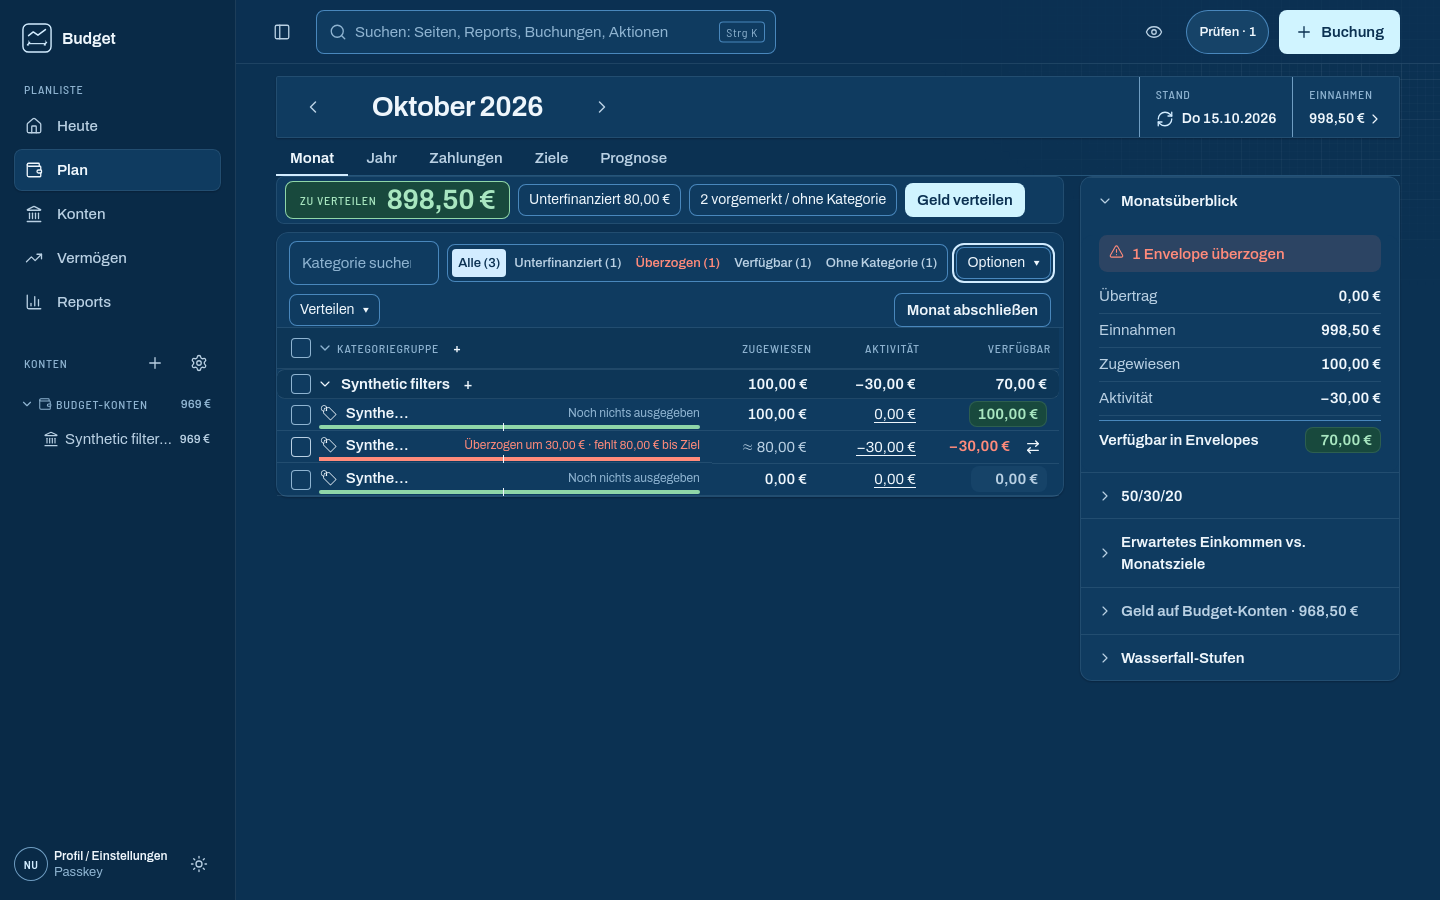
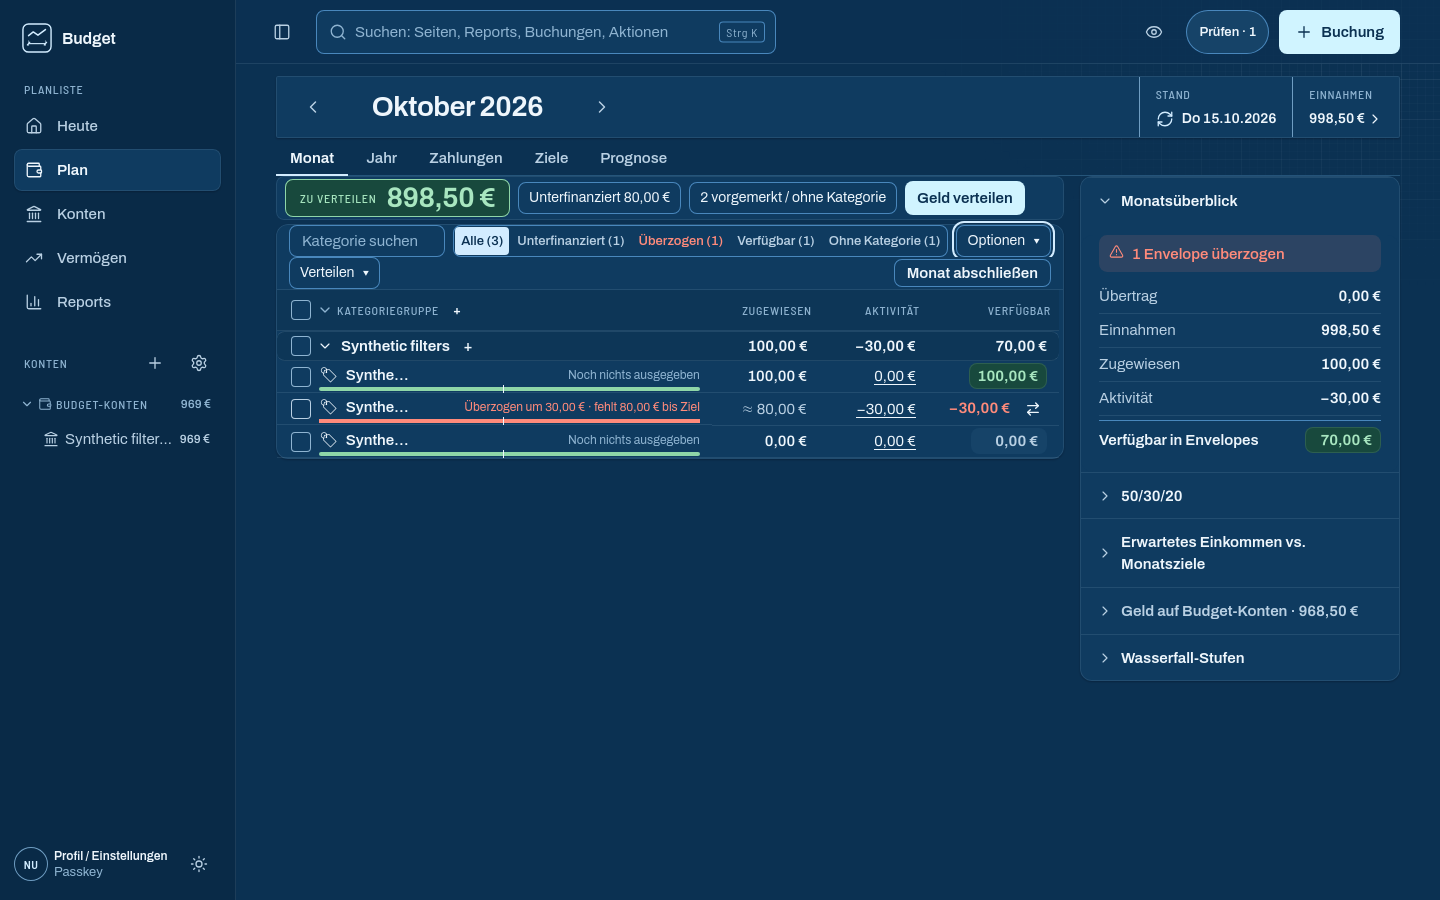
docs: record current Plan filter regression checks

Changed region(s): [[0.1875, 0.1867, 0.75, 0.56]]

diff --git a/docs/evidence/plan-filters-589/README.md b/docs/evidence/plan-filters-589/README.md
@@ -1,68 +1,65 @@
 # Plan category filters — #589
 
-Synthetic evidence from source `376fe26ddc03f75b3c0399ea169b67ee47ec470d`.
-The current canonical WebKit run passed **7/7**: three setup cases and four
-feature cases, with no skips, retries or flaky results (60.745s). A fresh E2E
-build passed; all 166 compiled files and source/Git remained unchanged during
-native execution. Owned processes and containers were cleaned up.
+Current synthetic evidence uses source `193f78b5c9dc96384ea8624f56aac0e926395a95`.
+Canonical WebKit passed **7/7**: three setup and four feature cases, no skips,
+retries or flaky results (69.953s). A fresh E2E build passed; source/Git and all
+166 compiled files stayed unchanged during native execution. Owned processes
+and containers were cleaned up.
 
 ## Current original images
 
-| Profile | Light | Dark | Actual viewport | Pointer |
-| --- | --- | --- | --- | --- |
-| Desktop-shaped WebKit | [Original](desktop-light.png) | [Original](desktop-dark.png) | 1440 × 900 | Fine |
-| Configured WebKit iPhone | [Original](phone-light.png) | [Original](phone-dark.png) | 390 × 664 | Coarse |
+| Profile | Light | Dark | Viewport | Pointer | Before grid |
+| --- | --- | --- | --- | --- | --- |
+| Desktop-shaped WebKit | [Original](desktop-light.png) | [Original](desktop-dark.png) | 1440 × 900 | Fine | 114px |
+| Configured WebKit iPhone | [Original](phone-light.png) | [Original](phone-dark.png) | 390 × 664 | Coarse | 330px |
 
-These four files are byte-identical copies from the current run, without image
-editing. The desktop images show the clarified “2 vorgemerkt / ohne Kategorie”
-union beside the strict “Ohne Kategorie (1)” filter. The union counts a pending
-classified booking and a pending uncategorized booking once each; the strict
-filter includes only the latter. Counts, existing popover and financial data
-remain unchanged. The union chip lies beyond the initial phone header horizontal
-scroll; phone PNGs therefore match prior image bytes. Current DOM assertions
-verify the new text/title, not initial phone visibility of that chip.
+All four are byte-identical copies from the current run, without editing.
+Desktop search, segments and Optionen share one row with the inspector open;
+the measured table offset114px meets the unchanged120px desktop boundary.
+This measurement uses the NEW synthetic scene, not a claimed rerun of the old
+18-row browser fixture. Phone still wraps at44px target height; the desktop120px
+bound is not applied to its330px offset. Both desktop-shaped scenes use WebKit.
 
-Desktop search, segments and Optionen share one row with the inspector open.
-On phone they wrap without horizontal document overflow (scrollWidth 390).
-The seven new phone controls have 44px height and passed individual scroll/reveal,
-viewport bounds and centre-hit ownership checks. Their initial recorded positions
-follow selection-triggered scrolling, so this is not proof that all seven controls
-fit simultaneously in the visible viewport. Full-page phone PNGs include content
-below the fixed navigation; this is configured browser evidence, not a physical
-device or whole-page touch-target certification.
+The header union “2 vorgemerkt / ohne Kategorie” remains distinct from strict
+“Ohne Kategorie (1)”. On phone that union chip lies beyond the initial header
+horizontal scroll. Phone originals therefore retain earlier image bytes, but
+were copied and verified from this current archive; DOM assertions verify the
+label/title, not initial phone visibility of the chip.
 
-## Interaction and financial evidence
+## Current interactions and focused checks
 
-All four current feature cases passed keyboard/menu and selected-state checks,
-changed-region Axe, search/filter URL navigation, Back/Forward/reload, actual
-source-booking links and privacy. The real existing UI cover action moved donor
-10000/recipient−3000 cents to 7000/0. Its persisted audit group and real Undo
-restored 10000/−3000, while the account remained 96850 cents. No synthetic success
-transport replaced these financial writes.
+All four current native cases passed legacy triage→Gruppen and triage→Zeit
+navigation, keyboard/selected state, changed-region Axe, search/filter URL
+Back/Forward/reload, source links and privacy. The real UI cover action moved
+donor10000/recipient−3000 cents to7000/0; its persisted audit group and real Undo
+restored10000/−3000, with account96850 unchanged. No mocked financial transport
+replaced these writes.
 
-Separate focused runs passed NEW pure 3, real API 3 and current Router UI 5, including
-exact 51 booking IDs, 50+1 paging, cursor refusal, read-only state conservation and
-the literal 52 union versus 51 strict count/dedup case. Eight unchanged compatibility
-files / 70 tests passed. DB/server/Web types and scoped lint/format/CSS checks passed;
-latest label-related static/UI checks ran on the current source. Existing tests,
-financial writers and formulas are unchanged.
+On the current source, NEW RouterUI7, eight unchanged compatibility files/70 tests,
+Web types, scoped ESLint/Prettier and CSS scale all passed. New Router cases cover
+legacy grouping, view changes, explicit filters, All and stale saved-triage state;
+ordinary/time-view row eligibility remains unchanged. Earlier pure3/API3 pass
+receipts remain separate, including exact51 IDs/50+1/cursor/no-write assertions.
+No existing test, financial writer or formula changed.
 
-## Limits and remaining gates
+## Historical results and pending gates
 
-- Chromium desktop/mobile acceptance is **pending required exact-head CI**. The
-  earlier local combined run had seven passes and four Chromium failures before
-  launch because canonical headless shell1248 was absent; no Chromium product
-  assertion ran. Both desktop-shaped images here still use WebKit.
-- Required `BUDGET_REQUIRE_AGE=1 npm run check` passed on source/evidence checkpoint
-  `f40e03370d9d2d7613c7be5730c767f281f9b7e2`: 589 files / 5211 tests, no failures
-  or skips; normal production build passed. All 3650 source hashes and modes,
-  HEAD, index and process guards stayed unchanged. This later documentation-only
-  result update does not change product or test code.
-- Exact-head required CI, serial integration and verified LIVE remain pending.
-- The existing phone floating plus partly overlaps Monat abschließen; existing
-  category-name ellipses and fixed-navigation full-page screenshot behavior are
-  outside this filter packet and do not certify those controls.
+- The earlier AGE-required full check and normal production build passed on
+  `f40e03370d9d2d7613c7be5730c767f281f9b7e2`:589 files/5211 tests, zero failures
+  or skips. That was before the compactness/legacy-triage correction; it is **not**
+  a required-full result on the current193f source.
+- First PR744 CI on329d failed real unchanged browser contracts: desktop table
+  offset194px exceeded120px; legacy triage grouping/view transitions failed on
+  desktop/mobile/WebKit. Those failures remain archived. Current targeted/new
+  WebKit success is not an unchanged-OLD-browser or current-green-CI claim.
+- Corrected exact-head Chromium desktop/mobile and required CI, any further
+  required validation/build, serial integration and verified LIVE remain pending.
+  An older local run also had four Chromium prelaunch failures from absent
+  canonical shell1248; that environment gap does not explain the later CI defects.
 
-The initial invalid contact/transfer API fixture, first custom-input label lint
-failure and earlier unclarified-header images remain historical receipts. They
-are not counted as extra successful tests or substituted for these current images.
+Phone scrollWidth is390 with no horizontal document overflow. Individual new
+controls passed scroll/reveal, viewport and centre-hit checks; their initial raw
+positions follow selection scroll, so not all seven are claimed simultaneously
+visible. Full-page phone images include content below fixed navigation and are
+not physical-device/whole-page target proof. Existing FAB/month-close overlap
+and category-name ellipses remain outside this packet.

diff --git a/docs/ROADMAP.md b/docs/ROADMAP.md
@@ -1795,19 +1795,16 @@ explicit reanalysis/review. Upload and reanalysis never post money.
 
 ## #589 — URL-backed Plan filters: isolated acceptance packet
 
-Category-name search and five URL-backed filters share count/list predicates.
-“Überzogen” retains the existing cover controls above the list; “Ohne Kategorie”
-links actual source bookings with bounded paging. The older header now labels its
-separate “vorgemerkt / ohne Kategorie” union. Financial writers, formulas and all
-existing tests are unchanged.
+URL-backed category search/counts and the strict missing-category reader retain
+existing financial writers/formulas. The separate header union is explicitly
+labelled “vorgemerkt / ohne Kategorie”. Compact fine-pointer controls and legacy
+triage/view transitions are corrected without changing any existing test.
 
-- [x] NEW pure3, corrected real API3 and current RouterUI5 passed in separate focused runs: literal counts/IDs, hidden and multi-month predicates, exact51/50+1 paging, cursor refusal, URL/history/search, selection/collapse and no-write conservation.
-- [x] Eight unchanged compatibility files/70 tests, affected types and scoped lint/format/CSS passed. Current header wording has a literal52-versus51 union/dedup regression.
-- [x] Current canonical WebKit7/7 (setup3 + feature4), no skips/retries/flaky cases: desktop1440×900/configured390×664 in both themes, individual phone44px targets, keyboard, Axe, source links and real cover/audit/Undo. [Four original images and evidence limits](evidence/plan-filters-589/README.md).
-- [ ] Chromium desktop/mobile required exact-head CI. Earlier local Chromium4 failed before launch because the canonical browser was absent; no product assertion ran.
-- [x] Required AGE-enabled full check and normal production build on `f40e0337`: 589 files / 5211 tests passed, zero failures/skips; all 3650 source hashes/modes, HEAD/index and process guards stayed exact.
-- [ ] Exact-head required CI, serial integration and verified LIVE; no queue-completion claim.
+- [x] Earlier NEW pure3/API3 passed with literal counts/IDs, hidden/multi-month predicates, exact51/50+1 paging, cursor refusal and read-only conservation.
+- [x] Current193f NEW RouterUI7 and unchanged compatibility8files/70tests passed; Web types and scoped lint/format/CSS passed. Legacy entry/view/All/explicit-filter and saved-state cases are covered.
+- [x] Current WebKit7/7 (setup3 + feature4), no skips/retries/flaky cases: both themes, desktop1440×900 table offset114px≤120 and configured390×664 with44px targets/no overflow; legacy triage roundtrips, keyboard/Axe/source links and real cover/audit/Undo passed. [Four current original images and limits](evidence/plan-filters-589/README.md).
+- [x] Historical required AGE full check and normal production build passed onf40e0337:589 files/5211 tests, before the current compact/legacy correction; this is not a full-run result on193f.
+- [ ] Corrected exact-head required Chromium/CI, remaining required validation/build, serial integration and verified LIVE.
 
-Current WebKit source is `376fe26d`; its fresh E2E build and unchanged166-file
-compiled proof precede the successful full/build checkpoint `f40e0337`. Later
-result documentation changes no product or test code. Chromium CI/LIVE remain open.
+First329d CI's unchanged compact/triage browser failures remain archived; current
+targeted/WebKit results do not claim those old browser cases or current CI green.
